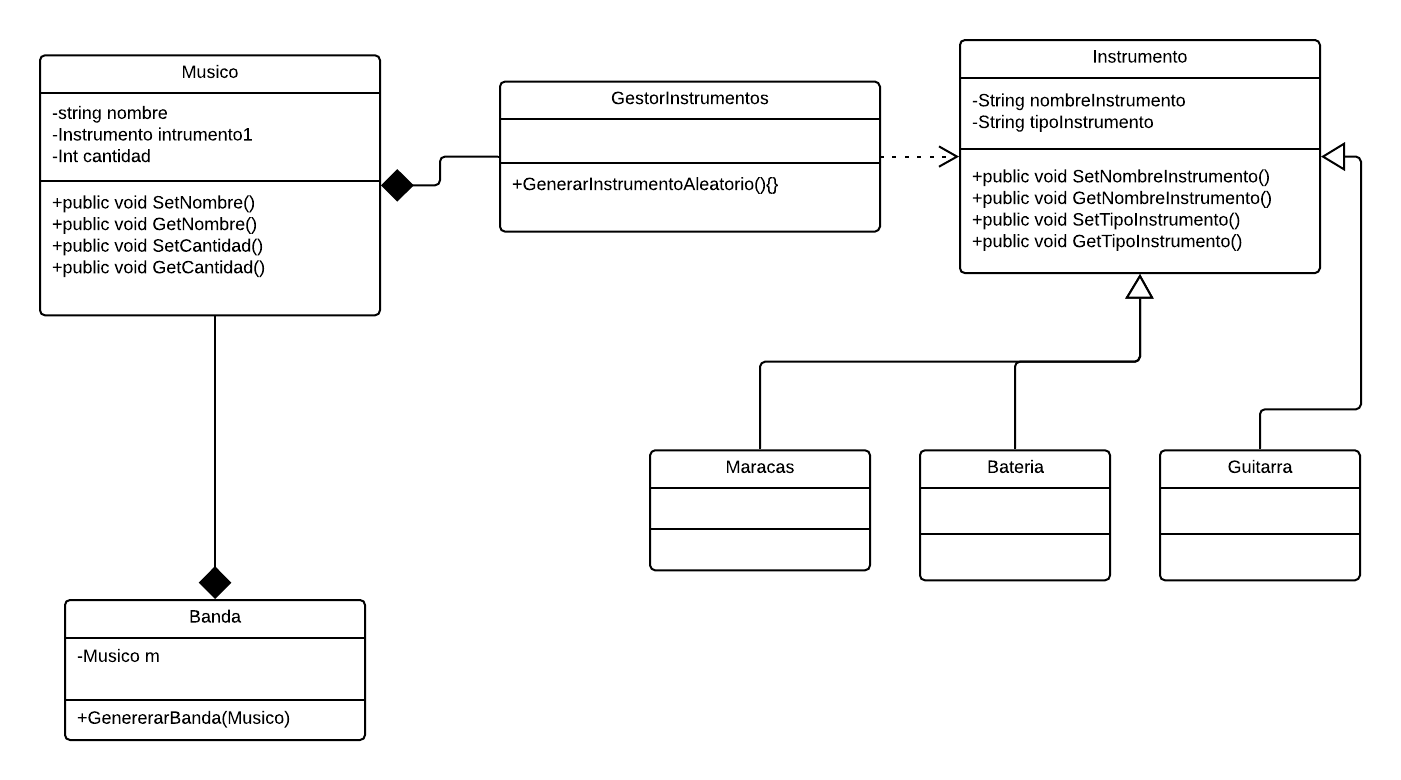
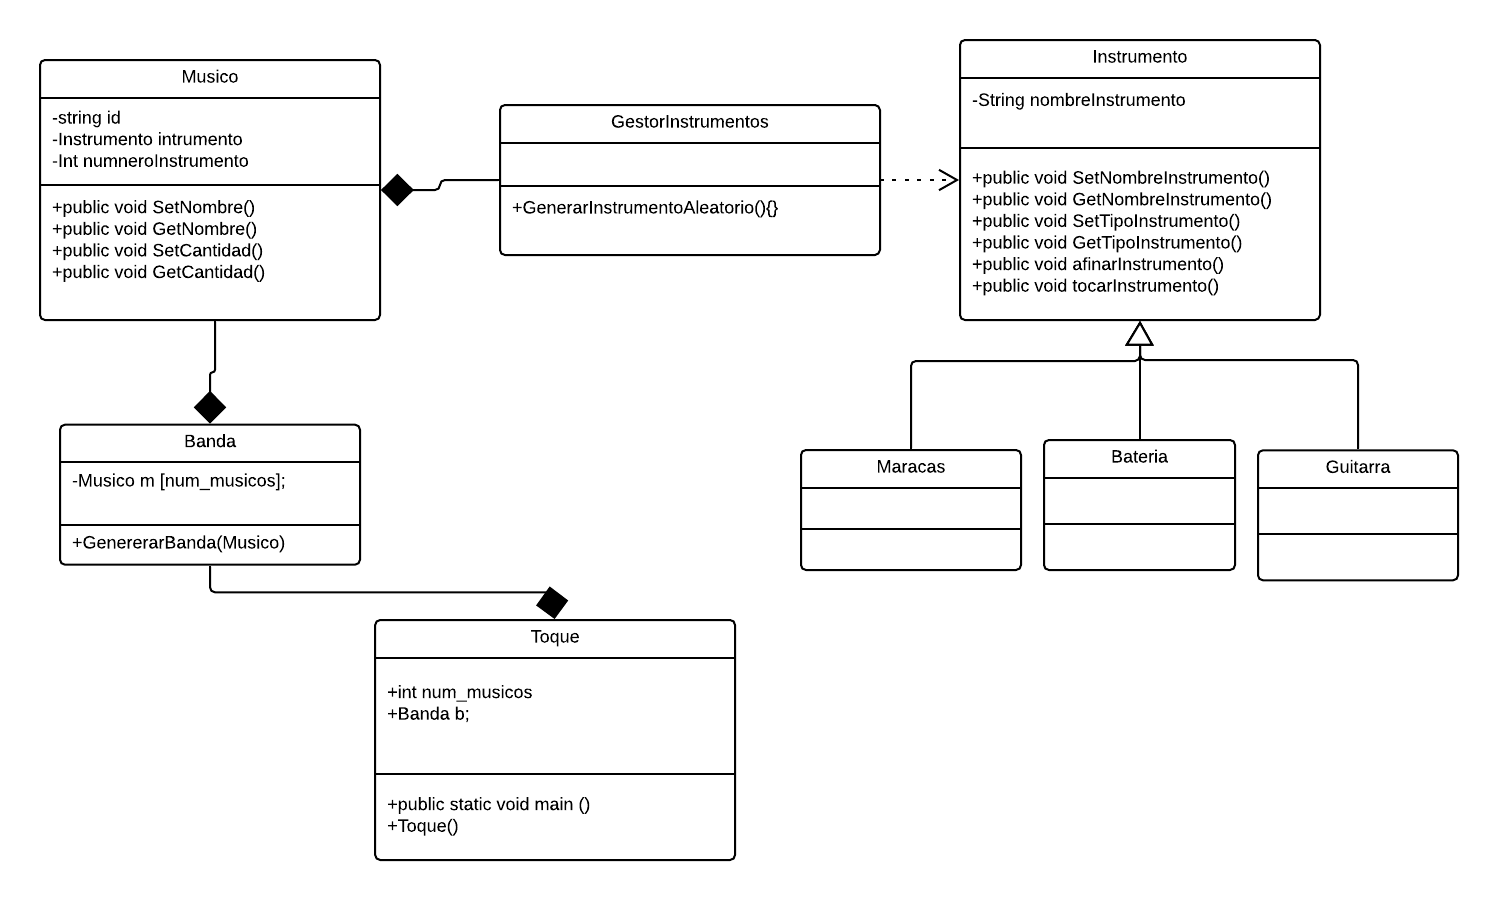
se añadio toque y se arreglo el diagrama de clases

diff --git a/banda aleatoria/src/main/Toque.java b/banda aleatoria/src/main/Toque.java
@@ -1,0 +1,25 @@
+package main;
+
+import banda.Banda;
+import instrumentos.Instrumento;
+
+public class Toque {
+	Instrumento inst;
+    int Num_Musicos;
+    Banda b;
+    public Toque(){
+        Num_Musicos=(int)((Math.random()*20)+1);
+        b=new Banda(Num_Musicos);
+        for(int i=0;i<Num_Musicos;i++){
+        	inst=b.m[i].GetInstrumento();
+            System.out.println("el musico #"+b.m[i].GetID()+" toca: "+inst.GetNombreInstrumento());
+            inst.afinarIntrumento();
+            inst.tocarIntrumento();
+            System.out.print("\n");
+        }
+    }
+    public static void main(String[] args) {
+        new Toque();
+    }
+
+}

diff --git a/banda aleatoria/src/musico/Musico.java b/banda aleatoria/src/musico/Musico.java
@@ -17,7 +17,6 @@ public class Musico {
 	        this.numInstrumento=(int)(Math.random()*2)+1;
 	        a= new GestorInstrumento (this.numInstrumento);
 	        instrumento= a.generarInstrumentoAleatorio(this.numInstrumento);
-	       // System.out.println("el numero que genera es :"+this.numInstrumento);
 	        
 	    }
 	    
